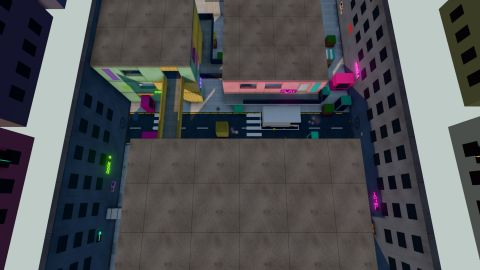
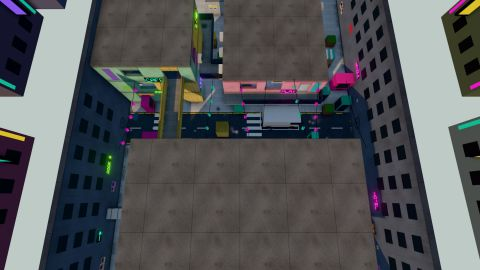
KI2: the menus' map pictures redrawn after MS1; the unused mode pictures deleted (owner, 2026-10-17)
Claude-Session: https://claude.ai/code/session_01THgTvwNv5yyfkrsDB56dvK

diff --git a/src/config/menuArt.ts b/src/config/menuArt.ts
@@ -1,6 +1,5 @@
 /**
- * The menus' pictures (graphics overhaul G3): a still of each map in each light it offers, a picture per match mode and
- * the backdrop (one picture blurred once for every screen but the title, so no screen blurs live). All are
+ * The menus' pictures (graphics overhaul G3): a still of each map in each light it offers and the backdrop (one picture blurred once for every screen but the title, so no screen blurs live). All are
  * drawn by the game itself (pipeline/map-stills.mjs, from the built game in a browser) and served from public/menu/.
  * This file has no imports, so that script reads it as it is.
  */
@@ -10,10 +9,9 @@ export const MENU_ART_DIR = 'menu';
 
 /**
  * Where a picture's camera stands: over the field looking across it from behind Alpha's start, high over its middle (a
- * city, whose streets only show from above), at eye height behind Alpha's start, where a player on Alpha first stands (a
- * little higher), or on Alpha's side of the flagpole looking at it.
+ * city, whose streets only show from above), or where a player on Alpha first stands (a little higher).
  */
-export type StillView = 'overview' | 'aerial' | 'ground' | 'street' | 'flag';
+export type StillView = 'overview' | 'aerial' | 'street';
 
 export interface StillShot {
   /** The file under MENU_ART_DIR. */
@@ -36,14 +34,7 @@ export const MAP_STILLS: readonly StillShot[] = [
   { file: 'range-day.jpg', map: 'range', light: 'day', view: 'street' },
 ];
 
-/** The mode cards' pictures (by MatchMode): a moment that reads as the mode. */
-export const MODE_STILLS: Readonly<Record<string, StillShot>> = {
-  elimination: { file: 'mode-elimination.jpg', map: 'depot', light: 'day', view: 'ground' },
-  attackDefend: { file: 'mode-attackDefend.jpg', map: 'depot', light: 'day', view: 'flag' },
-  extraction: { file: 'mode-extraction.jpg', map: 'woodland', light: 'night', view: 'street' },
-};
-
-/** Map stills and mode pictures: small JPEGs, a card's size at twice the density of a 1080p screen's half. */
+/** Map stills: small JPEGs, a card's size at twice the density of a 1080p screen's half. */
 export const STILL_SIZE = { width: 480, height: 270, quality: 0.8, maxBytes: 40_000 } as const;
 
 /**
@@ -57,10 +48,8 @@ export const BACKDROPS = {
 /** Where the camera stands for each view, in metres from the start it looks across from (`back`, `up`), and what it looks at. */
 export const STILL_CAMERA: Readonly<Record<StillView, { back: number; up: number; lookUp: number; fov: number }>> = {
   overview: { back: 6, up: 14, lookUp: 0, fov: 55 },
-  ground: { back: 1, up: 1.7, lookUp: 1.4, fov: 62 },
   aerial: { back: 8, up: 30, lookUp: 0, fov: 60 },
   street: { back: 0, up: 1.2, lookUp: 0, fov: 64 },
-  flag: { back: 9, up: 3.2, lookUp: 1.8, fov: 58 },
 };
 
 /** The map still's file for a map in a light, or null when none was drawn. */

diff --git a/src/config/menuArt.test.ts b/src/config/menuArt.test.ts
@@ -1,5 +1,5 @@
 import { describe, expect, it } from 'vitest';
-import { BACKDROPS, MAP_STILLS, MENU_ART_DIR, MODE_STILLS, STILL_SIZE } from './menuArt';
+import { BACKDROPS, MAP_STILLS, MENU_ART_DIR, STILL_SIZE } from './menuArt';
 
 // Node's fs, without its types (the project compiles for the browser).
 const nodeFs = 'node:fs';
@@ -19,7 +19,6 @@ interface Art { file: string; width: number; height: number; maxBytes: number }
 const still = (file: string): Art => ({ file, width: STILL_SIZE.width, height: STILL_SIZE.height, maxBytes: STILL_SIZE.maxBytes });
 const ART: Art[] = [
   ...MAP_STILLS.map((s) => still(s.file)),
-  ...Object.values(MODE_STILLS).map((s) => still(s.file)),
   ...Object.values(BACKDROPS).map((b) => ({ file: b.file, width: b.width, height: b.height, maxBytes: b.maxBytes })),
 ];
 

diff --git a/src/ui/menus/README.md b/src/ui/menus/README.md
@@ -38,8 +38,7 @@ choices to `src/game.ts`.
 - Shared parts: `menuParts.ts` (the small DOM builders every screen uses: buttons, rows, range controls, hint lines)
   and `confirmDialog.ts` (the pop-up that asks before a big or irreversible step, keyboard on Cancel).
 - Pictures: replica, part and colour pictures come from `render/itemPictures.ts` via `menuPictures.ts`; map stills are
-  files in `public/menu/`, made by `pipeline/map-stills.mjs` (`config/menuArt.ts`). The mode stills there are no
-  longer shown (MR1). Customise's Colour tab offers the bold schemes and the four realistic colours
+  files in `public/menu/`, made by `pipeline/map-stills.mjs` (`config/menuArt.ts`). Customise's Colour tab offers the bold schemes and the four realistic colours
   (`config/schemes.ts` › `PaintId`), kept per replica.
 - Icons: `icons.ts`, the small line icons the menus, the mode cards and the hit feed use.
 - Choices are saved in the browser and read back by `savedChoices.ts` (`loadMatchStarted`: the title's Tutorial offer).
